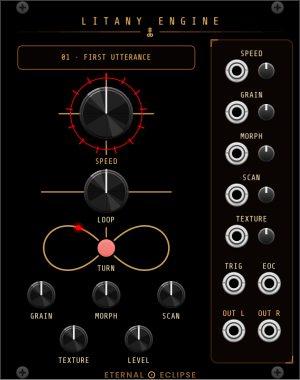
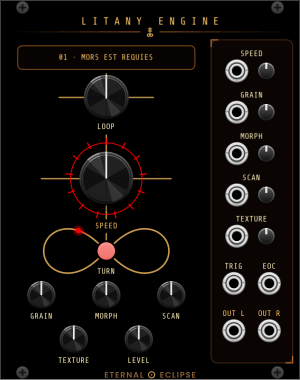
Litany Engine: LOOP above SPEED; cross and lemniscate re-spaced (OMN-90)

Changed region(s): [[0.12, 0.1447, 0.57, 0.7237], [0.18, 0.1447, 0.24, 0.1737], [0.15, 0.6079, 0.18, 0.6368]]

diff --git a/src/LitanyEngine/LitanyEngine.cpp b/src/LitanyEngine/LitanyEngine.cpp
@@ -353,21 +353,21 @@ struct LitanyEngineWidget : ModuleWidget {
 		addChild(display);
 
 		// Varispeed: the huge knob inside the sigil ring (ring in the panel SVG)
-		addParam(createParamCentered<RoundHugeBlackKnob>(mm2px(Vec(LX, 38.5f)), module, LitanyEngine::SPEED_PARAM));
-		addLabel(Vec(LX, 54.8f), "SPEED", eclipse::LABEL_SIZE, eclipse::ACCENT_COLOR);
+		addParam(createParamCentered<RoundHugeBlackKnob>(mm2px(Vec(LX, 60.5f)), module, LitanyEngine::SPEED_PARAM));
+		addLabel(Vec(LX, 76.6f), "SPEED", eclipse::LABEL_SIZE, eclipse::ACCENT_COLOR);
 
-		addParam(createParamCentered<RoundBigBlackKnob>(mm2px(Vec(LX, 65.f)), module, LitanyEngine::LOOP_PARAM));
-		addLabel(Vec(LX, 74.6f), "LOOP");
+		addParam(createParamCentered<RoundBigBlackKnob>(mm2px(Vec(LX, 33.f)), module, LitanyEngine::LOOP_PARAM));
+		addLabel(Vec(LX, 43.f), "LOOP");
 
 		// Tape-loop lemniscate, TURN at the head
 		LemniscateDisplay* tape = new LemniscateDisplay;
 		tape->module = module;
-		tape->box.pos = mm2px(Vec(LX - 23.f, 84.f - 9.f));
+		tape->box.pos = mm2px(Vec(LX - 23.f, 85.f - 9.f));
 		tape->box.size = mm2px(Vec(46.f, 18.f));
 		addChild(tape);
-		addParam(createLightParamCentered<VCVLightBezel<RedLight>>(mm2px(Vec(LX, 84.f)), module,
+		addParam(createLightParamCentered<VCVLightBezel<RedLight>>(mm2px(Vec(LX, 85.f)), module,
 			LitanyEngine::ADVANCE_PARAM, LitanyEngine::ADVANCE_LIGHT));
-		addLabel(Vec(LX, 91.f), "TURN");
+		addLabel(Vec(LX, 92.f), "TURN");
 
 		// Grain row
 		addParam(createParamCentered<RoundBlackKnob>(mm2px(Vec(14.f, 100.f)), module, LitanyEngine::GRAIN_PARAM));
